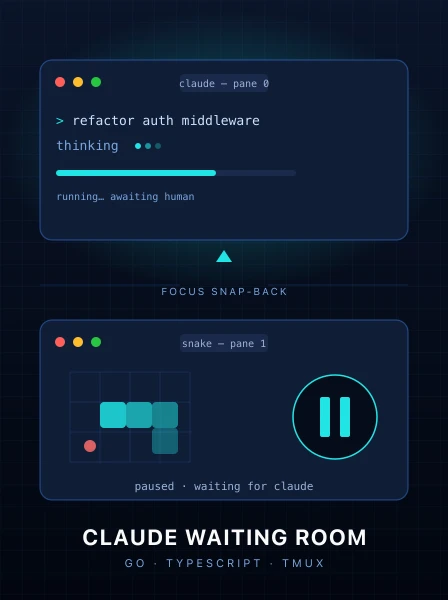
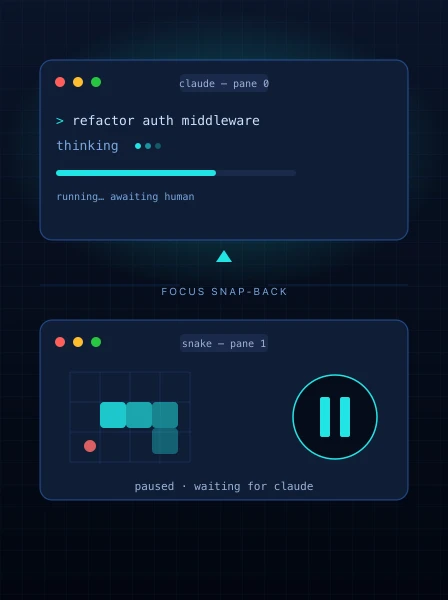
fix(projects): add localized backdrop + drop cover wordmark
Restores readability for the carousel card title/icon without darkening
the whole cover image. Two coordinated changes:

- ProjectSection.scss: bottom-up linear gradient on .project-card-overlay
  that fades from 78% black at the title row to transparent ~65% up the
  card. Top of the cover image stays fully visible (the previous design
  intent). Adds a drop-shadow on the brand icon and tightens the title
  text-shadow. pointer-events: none keeps the parent button clickable.
- claude_waiting_room.webp: removed the in-image "CLAUDE WAITING ROOM /
  GO · TYPESCRIPT · TMUX" wordmark, which was overlapping the overlay
  title and creating duplicate text at the bottom of the card.

Changed region(s): [[0.1875, 0.87, 0.8125, 0.96]]

diff --git a/app/components/sections/ProjectSection/ProjectSection.scss b/app/components/sections/ProjectSection/ProjectSection.scss
@@ -120,9 +120,10 @@
       z-index: 1;
     }
 
-    // No scrim — the cover image stays fully visible in both themes. A
-    // soft text-shadow on the title keeps the name readable on darker
-    // cover-image areas without darkening the whole bottom of the card.
+    // Soft bottom-only gradient behind the title+icon row for readability.
+    // The top ~55% stays fully transparent so the cover image is visible;
+    // only the area where the title/icon sit gets a dark backdrop. Pointer
+    // events pass through so the parent button remains clickable.
     .project-card-overlay {
       position: absolute;
       inset: 0;
@@ -131,6 +132,14 @@
       display: flex;
       align-items: flex-end;
       gap: 10px;
+      background: linear-gradient(
+        to top,
+        rgba(0, 0, 0, 0.78) 0%,
+        rgba(0, 0, 0, 0.55) 25%,
+        rgba(0, 0, 0, 0.2) 45%,
+        rgba(0, 0, 0, 0) 65%
+      );
+      pointer-events: none;
     }
 
     .project-card-icon {
@@ -139,6 +148,7 @@
       align-items: center;
       justify-content: center;
       flex-shrink: 0;
+      filter: drop-shadow(0 1px 3px rgba(0, 0, 0, 0.8));
 
       svg {
         font-size: 1.3rem;
@@ -152,7 +162,7 @@
       letter-spacing: 0.03rem;
       line-height: 1.25;
       text-align: left;
-      text-shadow: 0 2px 4px rgba(0, 0, 0, 0.8);
+      text-shadow: 0 2px 6px rgba(0, 0, 0, 0.9);
     }
   }
 
